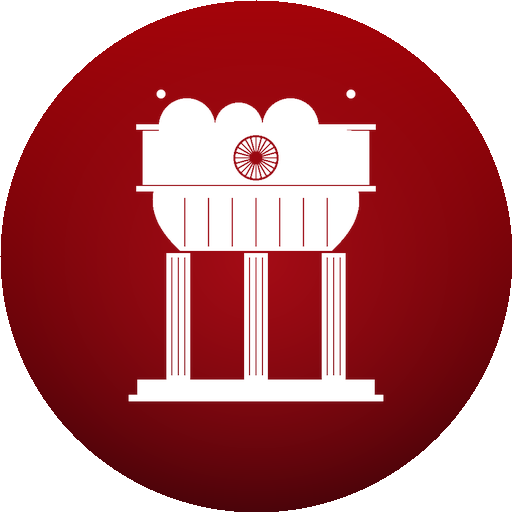
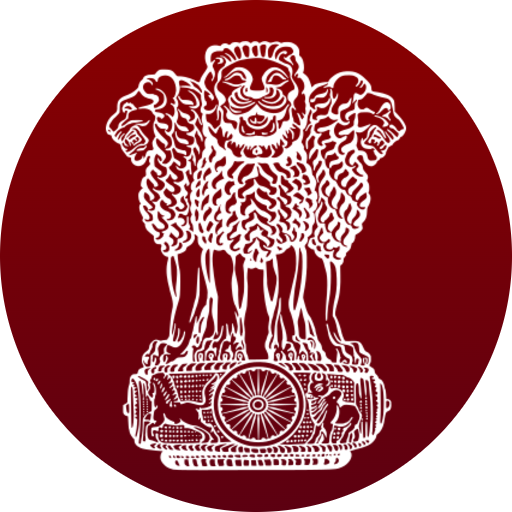
Proper Lok Sabha badge, gallery orientation, full UI polish pass
- Replace generated Lok Sabha badge with proper Ashoka Emblem from zip
- Fix gallery-3 rotation (was sideways)
- Gallery: object-position to show faces in portrait photos
- Change --display font from Archivo Black to Inter for all UI labels
- Fix --muted-2 contrast to meet WCAG AA (4.5:1 ratio)
- Add font-weight to all label elements for Inter readability
- Add :focus-visible styles to all interactive elements
- Fix form input focus ring (was outline:none, now visible)
- Add OG and Twitter Card meta tags for social sharing
- Lightbox: lock page scroll when open, unlock on close
- Fix admin gallery todo always showing
- Add gallery image onerror fallback
- Remove duplicate CSS rule

diff --git a/index.html b/index.html
@@ -5,6 +5,12 @@
 <meta name="viewport" content="width=device-width, initial-scale=1, viewport-fit=cover" />
 <title>Keystone Model United Nations</title>
 <meta name="description" content="Keystone School, Hyderabad — Model United Nations. Annual Session, 2–4 October 2026." />
+
+<meta property="og:title" content="KeyMUN — Keystone Model United Nations" />
+<meta property="og:description" content="Three days. Six committees. Annual session, 2–4 October 2026 at Keystone School, Hyderabad." />
+<meta property="og:image" content="https://kianvp.github.io/keymun/logo.png" />
+<meta property="og:type" content="website" />
+<meta name="twitter:card" content="summary" />
 <meta http-equiv="Content-Security-Policy" content="default-src 'self'; script-src 'self' 'unsafe-inline' https://cdn.jsdelivr.net; style-src 'self' 'unsafe-inline' https://fonts.googleapis.com; font-src https://fonts.gstatic.com; frame-src https://www.google.com https://docs.google.com; img-src 'self' data:; connect-src 'self'" />
 <link rel="preconnect" href="https://fonts.googleapis.com" />
 <link rel="preconnect" href="https://fonts.gstatic.com" crossorigin />
@@ -22,12 +28,12 @@
   --ember:#E11224;   /* was orange - now pure red */
   --text:#EDEDF0;
   --muted:#9b9ba3;
-  --muted-2:#6c6c74;
+  --muted-2:#8a8a92;
   --line:rgba(176,31,47,0.30);
   --line-soft:rgba(176,31,47,0.16);
   --comic:'Archivo Black',Impact,sans-serif;
   --serif:'Playfair Display',Georgia,serif;
-  --display:'Archivo Black',Impact,sans-serif;
+  --display:'Inter',system-ui,sans-serif;
   --sans:'Inter',system-ui,sans-serif;
   --ease:cubic-bezier(.22,1,.36,1);
   --float:cubic-bezier(.16,1,.3,1);
@@ -416,7 +422,6 @@ h1,h2,h3,h4{font-family:var(--comic);font-weight:400;line-height:.98;letter-spac
 #fbBook{align-self:center;justify-self:center;display:flex;align-items:center;justify-content:center;
   width:100%;filter:drop-shadow(10px 12px 0 rgba(8,8,10,.6))}
 #fbBook .stf__parent{margin:0 auto!important}
-#fbBook .stf__parent{margin:0 auto}
 .fb-hint{font-family:var(--display);font-size:.58rem;letter-spacing:.28em;
   text-transform:uppercase;color:var(--muted-2)}
 .fb-dots{display:flex;gap:.5rem;flex-wrap:wrap;justify-content:center;max-width:70vw}
@@ -457,7 +462,7 @@ h1,h2,h3,h4{font-family:var(--comic);font-weight:400;line-height:.98;letter-spac
 .gitem:nth-child(6){grid-column:span 2}
 @media(max-width:700px){.gal{grid-template-columns:repeat(2,1fr);grid-auto-rows:140px}}
 .gitem{position:relative;cursor:pointer;overflow:hidden}
-.gart{position:absolute;inset:0;width:100%;height:100%;object-fit:cover}
+.gart{position:absolute;inset:0;width:100%;height:100%;object-fit:cover;object-position:center 25%}
 .gitem .gcap{position:absolute;left:0;right:0;bottom:0;background:var(--ink);color:var(--paper);
   font-family:var(--display);font-size:.6rem;letter-spacing:.16em;text-transform:uppercase;
   padding:.55rem .8rem;border-top:2px solid var(--red);z-index:2}
@@ -517,7 +522,7 @@ h1,h2,h3,h4{font-family:var(--comic);font-weight:400;line-height:.98;letter-spac
 .f input,.f select,.f textarea{width:100%;background:var(--paper);color:var(--ink);
   border:var(--ink-b) solid var(--ink);padding:.7rem .8rem;font-family:var(--sans);font-size:.92rem;
   box-shadow:var(--sh-sm);transition:.2s}
-.f input:focus,.f select:focus,.f textarea:focus{outline:none;transform:translate(-2px,-2px);box-shadow:var(--sh)}
+.f input:focus,.f select:focus,.f textarea:focus{outline:2px solid var(--ember);outline-offset:2px;transform:translate(-2px,-2px);box-shadow:var(--sh)}
 .f textarea{min-height:88px;resize:vertical}
 .submit{width:100%;font-family:var(--display);font-size:.75rem;letter-spacing:.22em;text-transform:uppercase;
   background:var(--red);color:var(--paper);border:var(--ink-b) solid var(--ink);box-shadow:var(--sh);padding:1rem;transition:.2s}
@@ -652,6 +657,16 @@ h1,h2,h3,h4{font-family:var(--comic);font-weight:400;line-height:.98;letter-spac
 @media(max-width:980px){.nav-links,.nav-cta{display:none}.burger{display:block}}
 @media(prefers-reduced-motion:reduce){*{animation-duration:.01ms!important;transition-duration:.01ms!important}
   [data-rev]{opacity:1!important;transform:none!important}.snap{scroll-snap-type:none}}
+.stat span,.tl-day,.cmt .full,.cmt .ag b,.pf-cap,.pf-role,.pf-static .st-role,
+.gitem .gcap,.lb-cap,.f-col h5,.railbar,.fb-btn,.day-btn,.slot .tag,.res .meta,
+.pf-cover .cbar,.pf-cover .cv-issue,.pf-cover .cv-tag,.ci .lb,.f label,.submit,
+.adm-err,.adm-stat span,.adm-table th,.fee-table th,.eb-label,.reg-meta,
+.fb-hint,.fb-counter,.pf-page .pgn,.q-head{font-weight:600}
+.pillar h4,.tl-item h4,.slot h4,.reg-note h4{font-weight:700}
+.cmt .lvl,.cmt .flipcue,.pf-tag,.f-credit{font-weight:500}
+.nav-links a:focus-visible,.nav-cta:focus-visible,.btn:focus-visible,.fb-btn:focus-visible,
+.day-btn:focus-visible,.q-head:focus-visible,.gitem:focus-visible,
+.lb-close:focus-visible,.fb-dots button:focus-visible,.submit:focus-visible{outline:3px solid var(--ember);outline-offset:4px}
 </style>
 </head>
 <body class="loading">
@@ -1177,7 +1192,7 @@ qsa('[data-logo-k]').forEach(m=>{ const src='logos/'+m.dataset.logoK+'.png';
   const im=new Image(); im.onload=()=>{ m.classList.add('has-logo');
     m.innerHTML=`<img src="${src}" alt="">`; }; im.src=src; });
 qs('#gal').innerHTML=DATA.gallery.map((g,i)=>
-  `<figure class="panel gitem" data-i="${i}"><img class="gart" src="${g.src}" alt="Gallery photo ${i+1}" loading="lazy"></figure>`).join('');
+  `<figure class="panel gitem" data-i="${i}"><img class="gart" src="${g.src}" alt="Gallery photo ${i+1}" loading="lazy" onerror="this.style.display='none'"></figure>`).join('');
 qs('#res').innerHTML=DATA.resources.map(r=>{
   const safe=/^https?:\/\//i.test(r.u)?r.u:'#';
   return `<a class="panel res" href="${safe}" target="_blank" rel="noopener"><h4>${r.h}</h4><p>${r.p}</p><div class="meta">${r.m} ▶</div></a>`;}).join('');
@@ -1294,11 +1309,12 @@ let fbGo=null;
 
 /* ===================== GALLERY LIGHTBOX ===================== */
 const lb=qs('#lightbox');
+function closeLb(){lb.classList.remove('open');document.documentElement.classList.remove('lock');}
 qsa('.gitem').forEach(g=>g.addEventListener('click',()=>{ const i=+g.dataset.i,d=DATA.gallery[i];
-  qs('#lbArt').innerHTML='<img src="'+d.src+'" alt="" style="width:100%;height:100%;object-fit:contain">'; qs('#lbCap').textContent='Photo '+(i+1); lb.classList.add('open'); }));
-qs('#lbClose').addEventListener('click',()=>lb.classList.remove('open'));
-lb.addEventListener('click',e=>{if(e.target===lb)lb.classList.remove('open');});
-addEventListener('keydown',e=>{if(e.key==='Escape')lb.classList.remove('open');});
+  qs('#lbArt').innerHTML='<img src="'+d.src+'" alt="" style="width:100%;height:100%;object-fit:contain">'; qs('#lbCap').textContent='Photo '+(i+1); lb.classList.add('open');document.documentElement.classList.add('lock'); }));
+qs('#lbClose').addEventListener('click',()=>closeLb());
+lb.addEventListener('click',e=>{if(e.target===lb)closeLb();});
+addEventListener('keydown',e=>{if(e.key==='Escape')closeLb();});
 
 /* ===================== SCHEDULE ===================== */
 (function(){ const dv=qs('#days'),sv=qs('#slots');
@@ -1433,7 +1449,7 @@ qsa('[data-r],[data-form]').forEach(a=>a.addEventListener('click',()=>closeMobil
       t.push(['Contact','Email address','Confirm the real MUN inbox']);
     if(!MUN_PHOTOS.some(u=>!/^https?:\/\/images\.unsplash/.test(u)))
       t.push(['Intro','Nine photos','Replace the stock images in MUN_PHOTOS']);
-    t.push(['Gallery','Eight photos','Real photos for the gallery panels']);
+    if(DATA.gallery.length<1) t.push(['Gallery','Photos','Add real gallery photos']);
     return t;
   }
 
